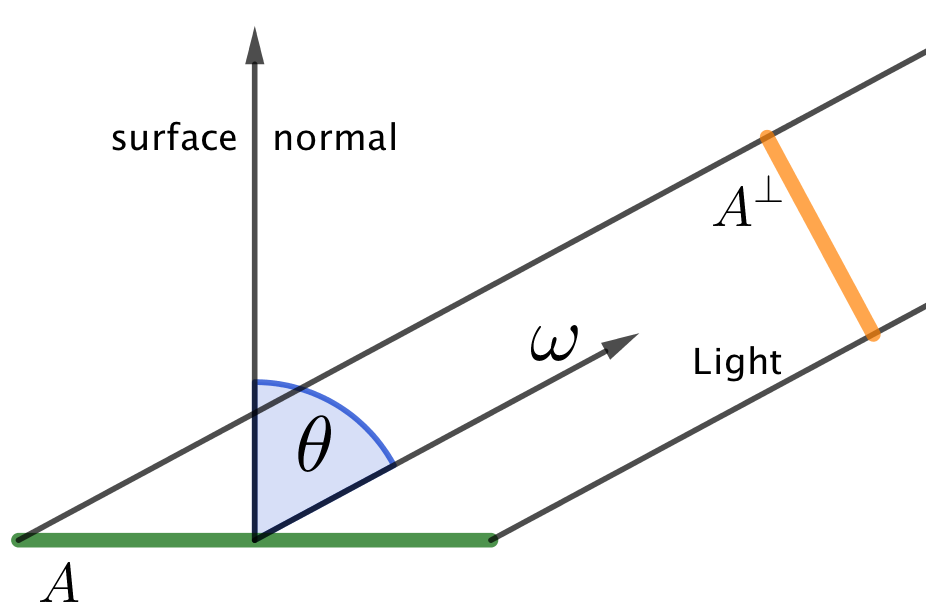
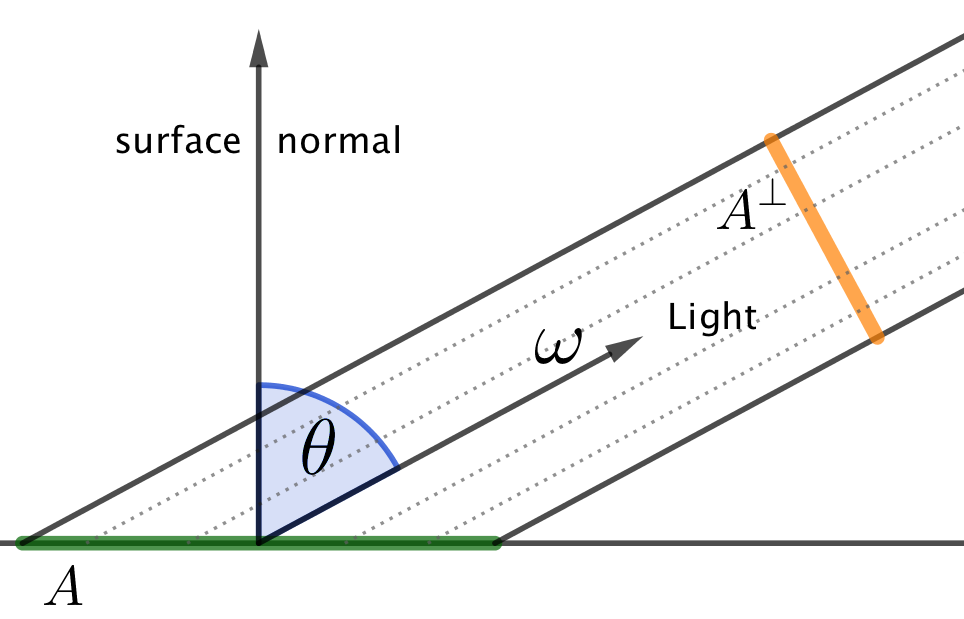
quantities before introducing BRDF

Changed region(s): [[0.0, 0.0297, 1.0, 1.0], [0.9978, 0.3262, 1.0, 0.3558], [0.5745, 0.7414, 0.6048, 0.771]]

diff --git a/index.html b/index.html
@@ -179,7 +179,7 @@
       <p><a href="#">Link</a></p> -->
     </div>
     <div class="col-sm-8 text-left">
-      <h1>Methods and Examples for Diffraction in Physics Based Rendering</h1>
+      <h1>Concepts and Examples</h1>
       <p>
         When light hits a surface, some of it is reflected back into the environment.
         Inorder to simplfy modelling this process we make the following assumptions:
@@ -225,15 +225,39 @@
             where $h \approx 6.626\times 10^{-34} \frac{m^2 kg}{s}$ is Plank's constant
             and $c \approx 2.9979\times 10^8 \frac{m}{s}$ is the speed of light.
           </li>
+          <li>
+            <b> Flux </b>: The amount of light passing through an area per time is given
+            is given by the flux $ \Phi = \dfrac{dQ}{dt}$ where $Q$ is the energy of the light.
+          </li>
+          <li>
+            <b> Irradiance </b>: The density of flux arriving at or reflected by a surface is called irradiance.
+            We write $E = \dfrac{\Phi}{A}$ where $A$ is the area of the surface and $\Phi$ the flux at the surface or $E = \dfrac{d\Phi(p)}{dA}$
+            where $p$ is a point on the surface.
+          </li>
         </ul>
+        <p>
+          It is important to note that in the definition of irradiance above, the area $A$ is
+          measured with respect to the surface. If the direction of the light is orthogonal to
+          the surface, $A^\bot$ measured perpendicular to the path of the light
+          is the same as $A$ on the surface. Otherwise we need to apply <b> Lambert's Law: </b>
+        </p>
 
         <div class="imagebox" style="width:45%">
           <img src="lambert.png" alt="Lambert's Law">
           <div class="container" style="width:100%">
             <hr>
-            <p>Figure 1: Lambert's Law.</p>
+            <p>Lambert's Law: $ E = \dfrac{\Phi}{A} = \dfrac{\Phi cos \theta}{A^\bot} $</p>
           </div>
         </div>
+
+        <p>
+          There is one more quatity we need to define, before we can introduce the BRDF.
+          <b> Radiance </b> is the flux density per unit area per unit solid angle.
+          Solid angles are the three-dimensional analogue of angles we know from plane
+          geometry. They are measured in steradians ($sr$). A unit sphere is has $4\pi sr$
+          and the solid angle of an object at a vertex is the area of its projection
+          onto a unit sphere around that vertex.
+        </p>
 
         <div class="imagebox" style="width:65%">
           <img src="BRDF_input.png" alt="input quantities for BRDF">
@@ -252,13 +276,6 @@
         </div>
 
         <p class="text-body text">
-          asdjs sdpweopw epwewpoe pweojopwejfwope fopweojfopwejfopwjfpowejfpowejfpowjfpowjfwpeofwefwe
-          wefwefpwefhwiehfowiefw
-          fwefwioehfowiehfwefwehfowheiowhfoiwehfiownfwf ewiwhoifwhw eifheo wiehfiow eoiwfhw e hfo weh
-          weihfo w wei howeoiw hweioh owhewioh woeih oweoie wheoiweht ww
-          sdssd
-
-          $ x = 1 $
         </p>
       </section>
     </div>
@@ -276,7 +293,8 @@
 </div>
 
 <footer class="container-fluid text-center">
-  <p>Footer Text</p>
+  <h3>References</h3>
+  <p>...</p>
 </footer>
 
 </body>
